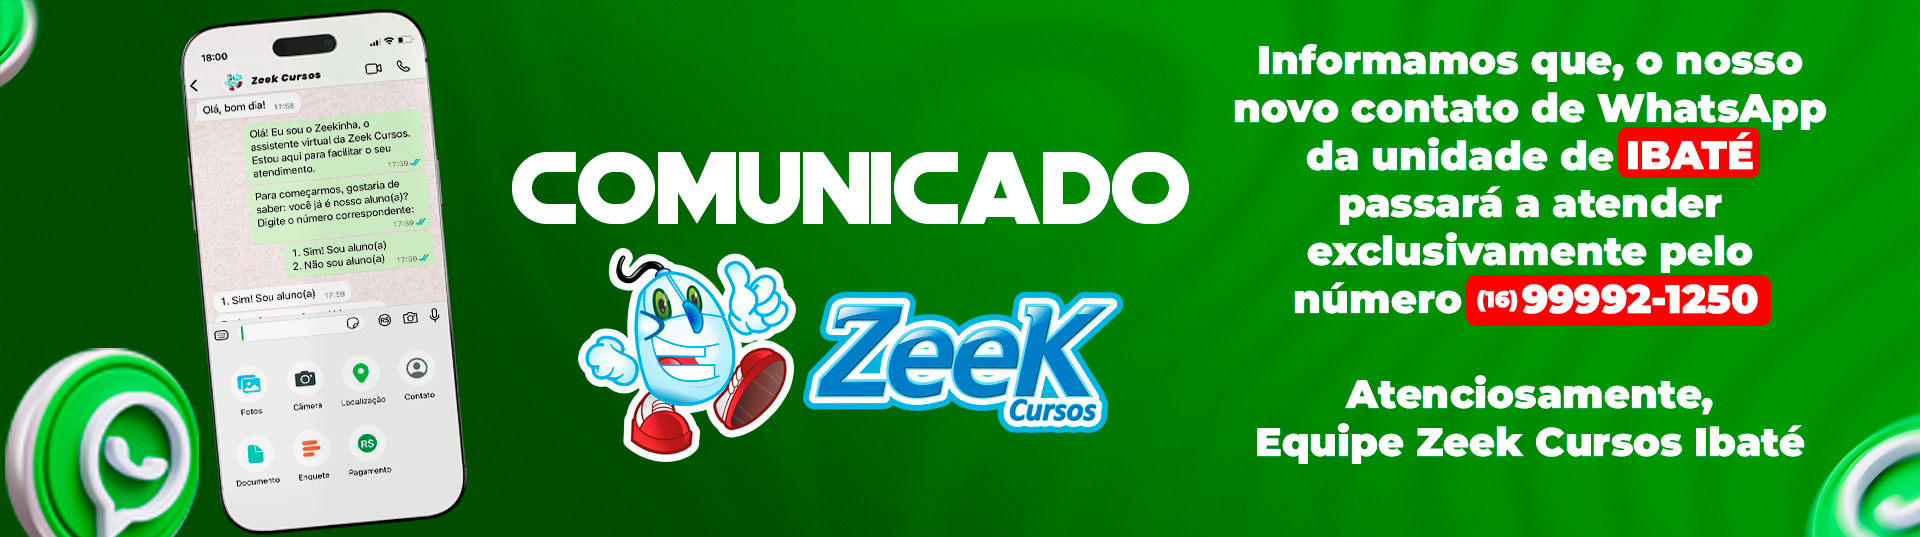
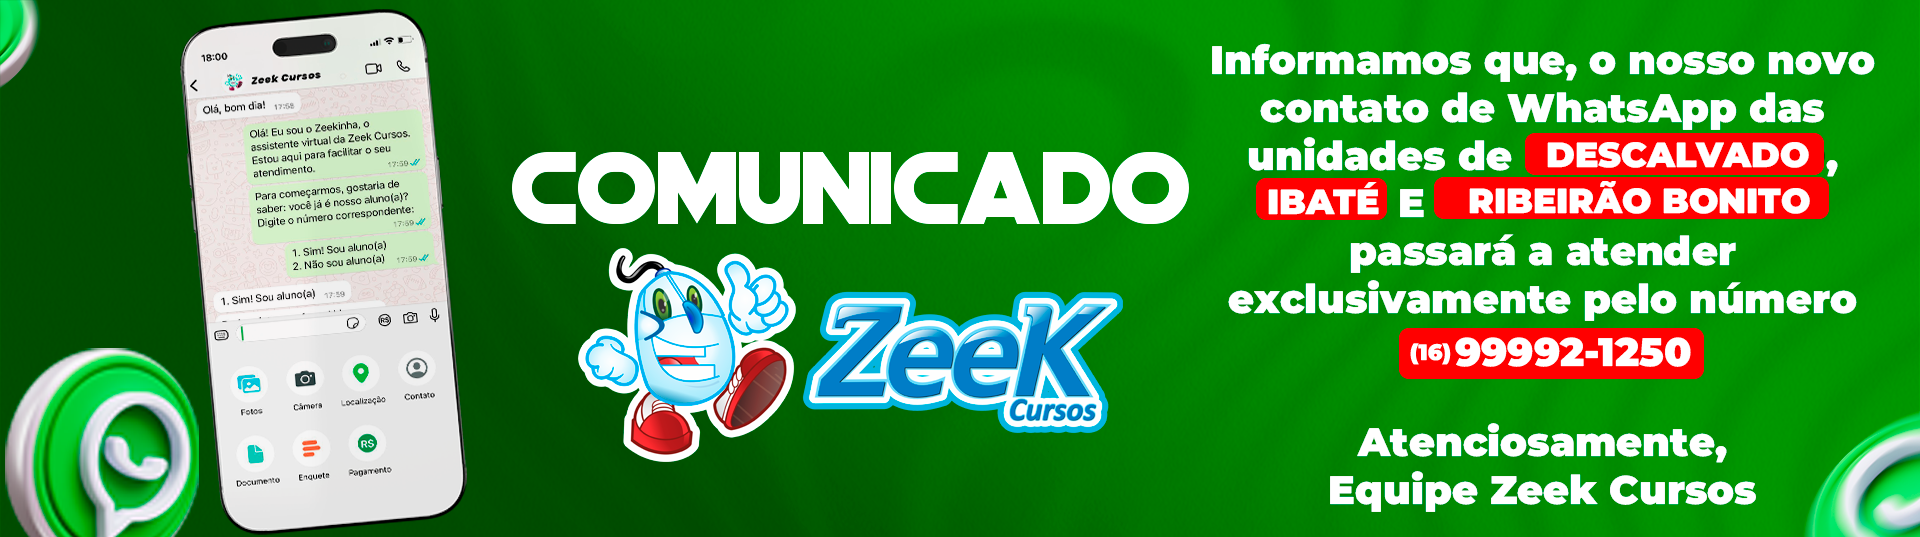
atualização

Changed region(s): [[0.625, 0.0894, 1.0, 0.8641], [0.6875, 0.8939, 0.9375, 0.9534]]

diff --git a/index.html b/index.html
@@ -106,6 +106,9 @@
                 <img class="d-block w-100" src="./img/AniversarioZeek.png" alt="Primeiro Slide">
             </div>
             <div class="carousel-item">
+                <img class="d-block w-100" src="./img/comunicado.png" alt="Segundo Slide">
+            </div>
+            <div class="carousel-item">
                 <a href="excelAvancadoPowerBi.html">
                     <img class="d-block w-100" src="./img/Excel e PowerBi.png" alt="Terceiro Slide">
                 </a>
